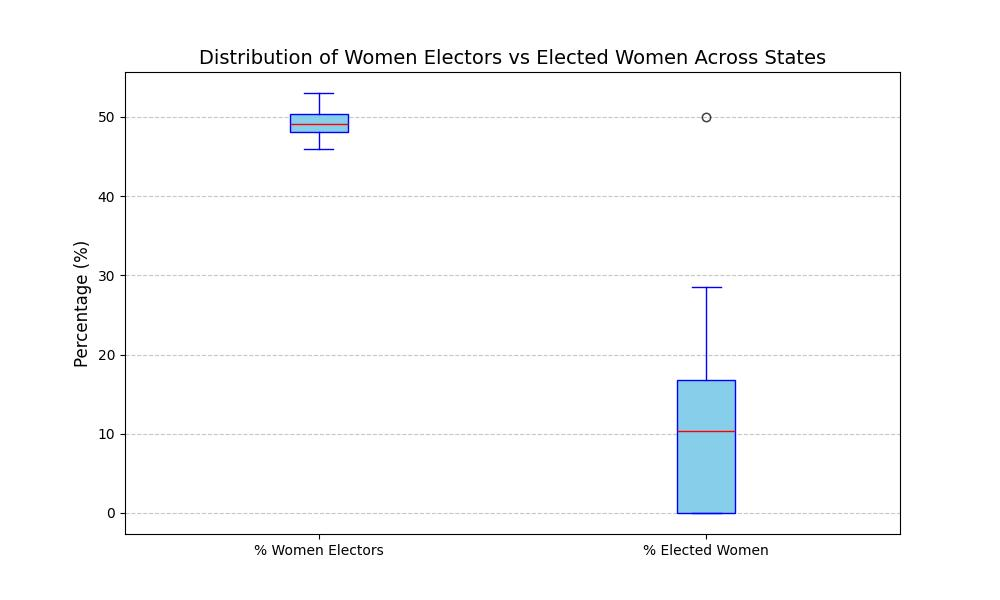
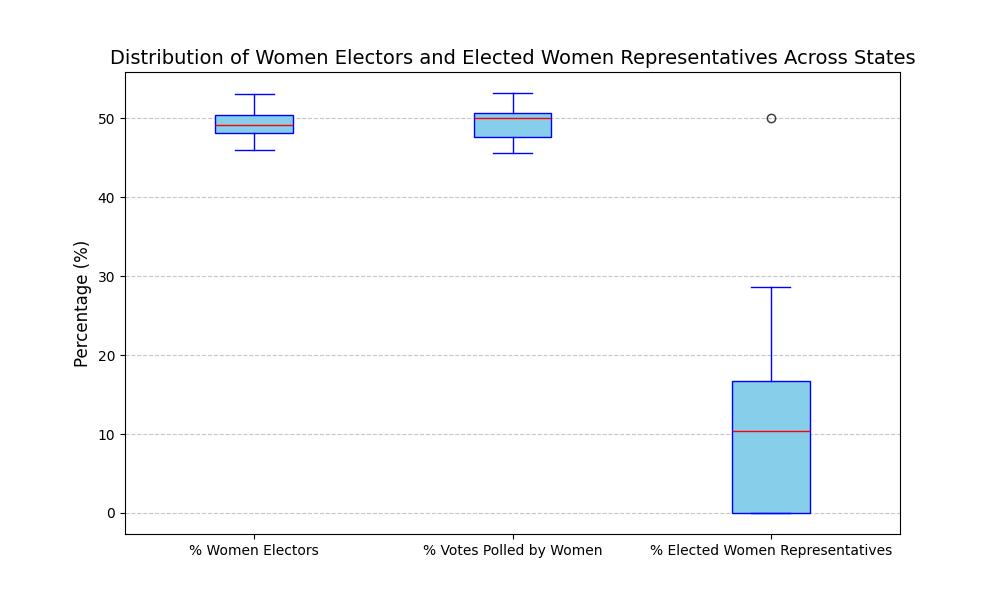
Updated the README and visualisations

diff --git a/README.md b/README.md
@@ -54,31 +54,18 @@ This analysis uses two datasets from the Government of India's Open Data Portal 
 
 - The analysis also reveals substantial variation in women's political representation across states. The consistency in women's proportion as electors across states reflects India's balanced gender demographic, making the representation gap more pronounced. This suggests that local factors, policies, and cultural contexts play crucial roles.
 
-## Technical Implementation
-
-The analysis uses Python with the following libraries:
-
-- `pandas` for data manipulation and merging
-- `matplotlib` for creating visualizations
-- `numpy` for numerical operations
+## Implementation
 
 The code implements:
 
 - Data cleaning and merging of two datasets
-- Multiple visualization techniques (bar charts, line plots, box plots, scatter plots)
-- Statistical analysis of distributions and correlations
+- The following visualisation techniques - bar chart, box plot and scatter plot
+- Analysis of visualisations
 
-## Methodology
-
-1. **Data Integration**: Inner join of both datasets on state names to ensure analysis of common states
-2. **Visualization Strategy**: Multiple chart types to reveal different aspects of the data
-3. **Comparative Analysis**: Side-by-side comparison of participation metrics
-4. **Distribution Analysis**: Statistical examination of data spread and outliers
-
-## Files in this Repository
+Files in this repository:
 
 - `/plots`: Directory containing the generated plots
-- `test.ipynb`: Jupyter notebook containing the complete analysis and visualizations
+- `visualisations.ipynb`: Jupyter notebook containing the visualisations
 - `README.md`: This documentation file
 
 ## Citations
